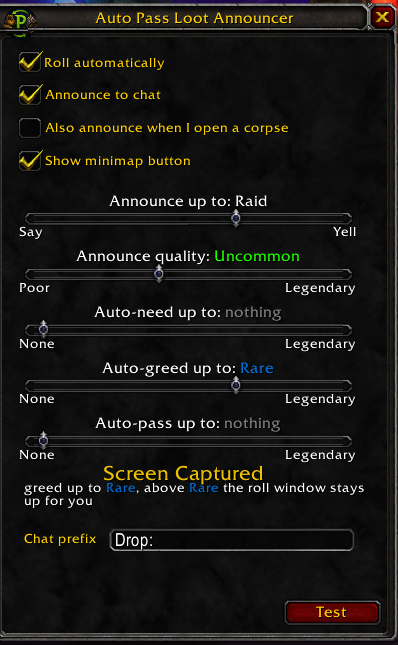
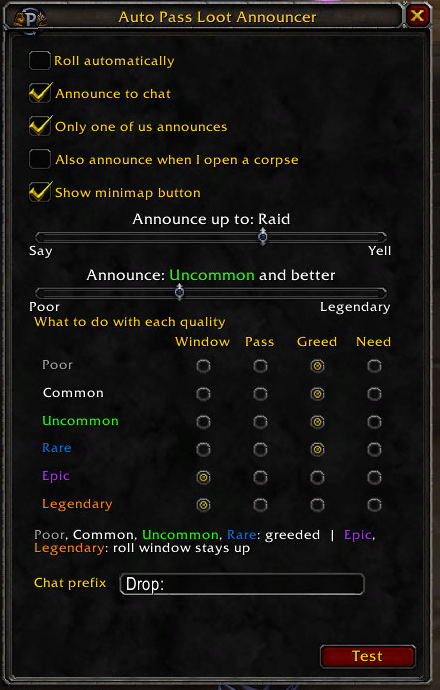
Replace the screenshots with clean captures
The old ones were taken mid-debugging: the options panel showed the
superseded cumulative sliders rather than the per-quality grid, and the
chat sample was full of test rolls.

Drop the minimap screenshot entirely, it was a row of buttons captured
while sizing the icon. The icon art itself shows the armed and idle
states better, so the README now uses 96px renders of the source PNGs.

Changed region(s): [[0.0, 0.0, 1.0, 1.0]]

diff --git a/README.md b/README.md
@@ -16,13 +16,16 @@ Built for raids where everyone is asked to pass on loot. Blizzard's "Pass on Loo
 
 ## Screenshots
 
-| Options | Minimap |
-| --- | --- |
-| ![Options panel](Media/screenshots/options-panel.png) | ![Minimap button](Media/screenshots/minimap-button.png) |
+![Options panel](Media/screenshots/options-panel.png)
 
 ## Usage
 
-Left-click the minimap button to arm or disarm automated rolling — the coin turns green when armed. Right-click opens the options.
+Left-click the minimap button to arm or disarm automated rolling. Right-click opens the options.
+
+| | |
+| --- | --- |
+| <img src="Media/icon-idle.png" width="48"> | Idle, automated rolling off |
+| <img src="Media/icon-armed.png" width="48"> | Armed, the arrows turn green |
 
 For the addon to see rolls at all, Blizzard's own **Pass on Loot** option must be **off** (Interface → Combat). That option suppresses the roll server side and no addon can work around it.
 
@@ -91,7 +94,7 @@ CI runs both on every push. See `docs/RELEASING.md` for how the CurseForge side 
 AutoPassLootAnnouncer.toc    metadata, load order
 AutoPassLootAnnouncer.lua    the addon
 Textures/                    minimap icons (32-bit uncompressed TGA, 64x64)
-Media/                       screenshots and icon sources, excluded from the package
+Media/                       screenshots and icon art, excluded from the package
 docs/                        release notes for maintainers
 .pkgmeta                     tells the CurseForge packager what to ship
 ```
